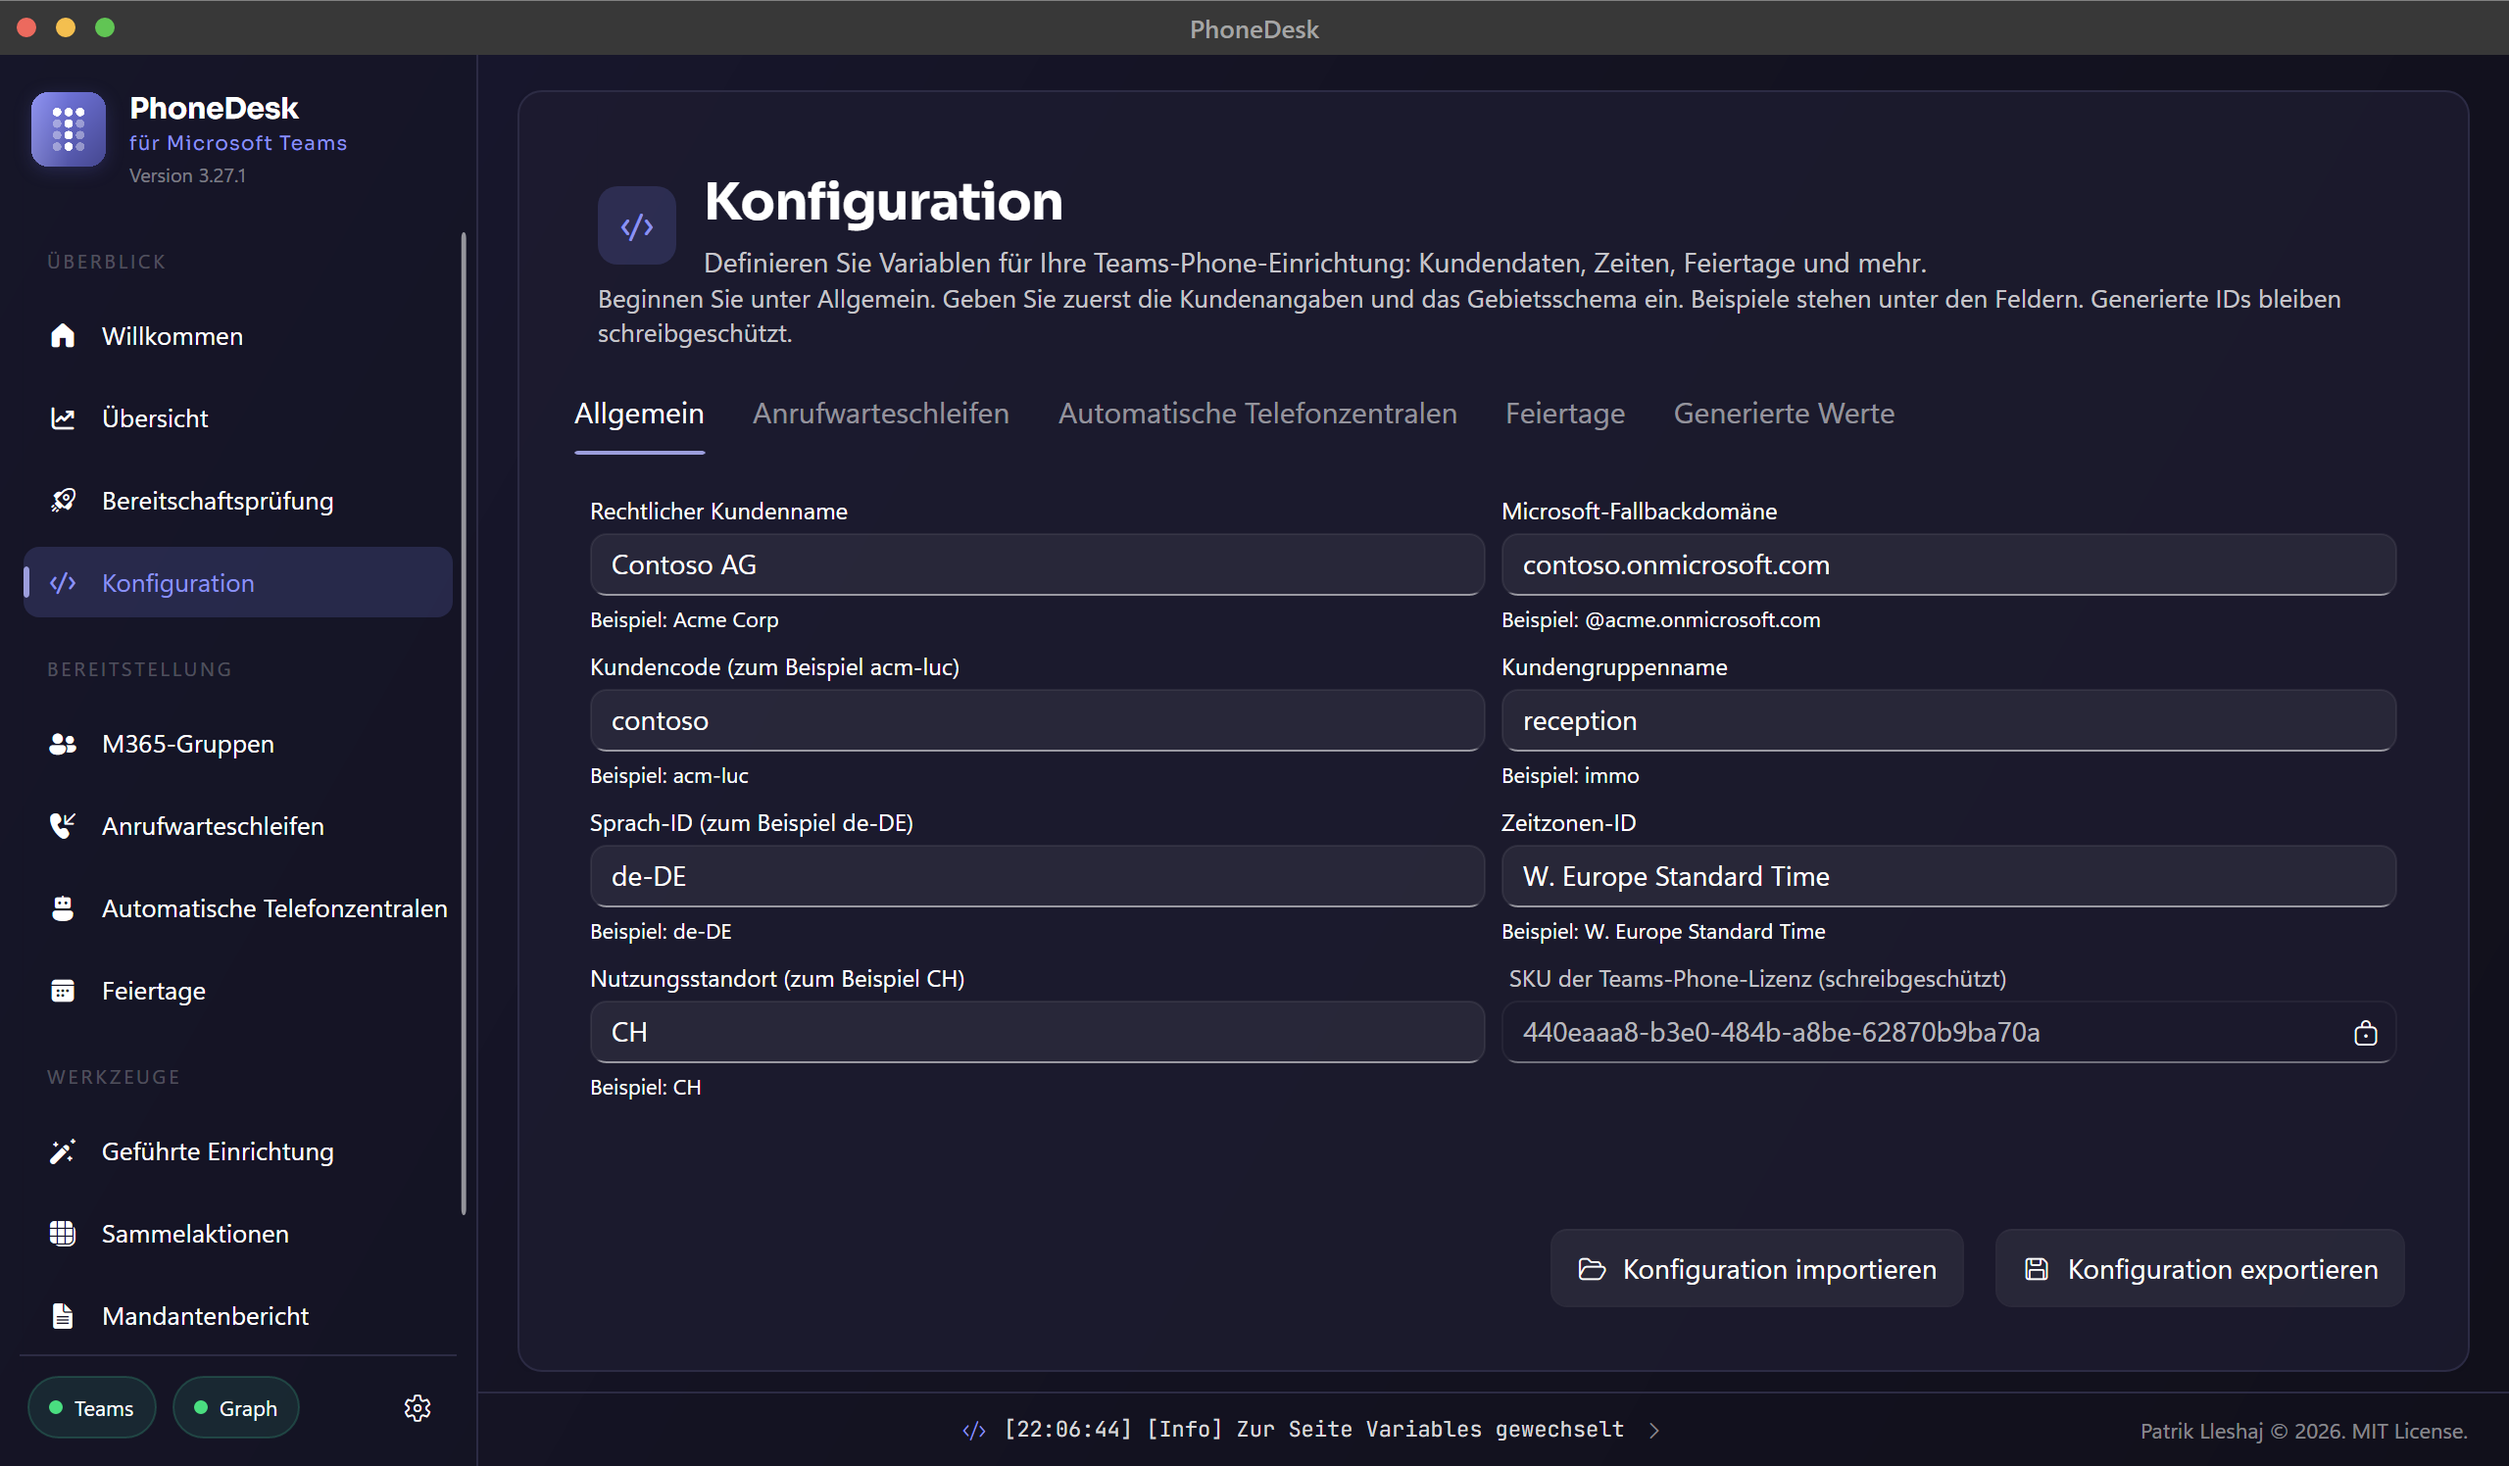
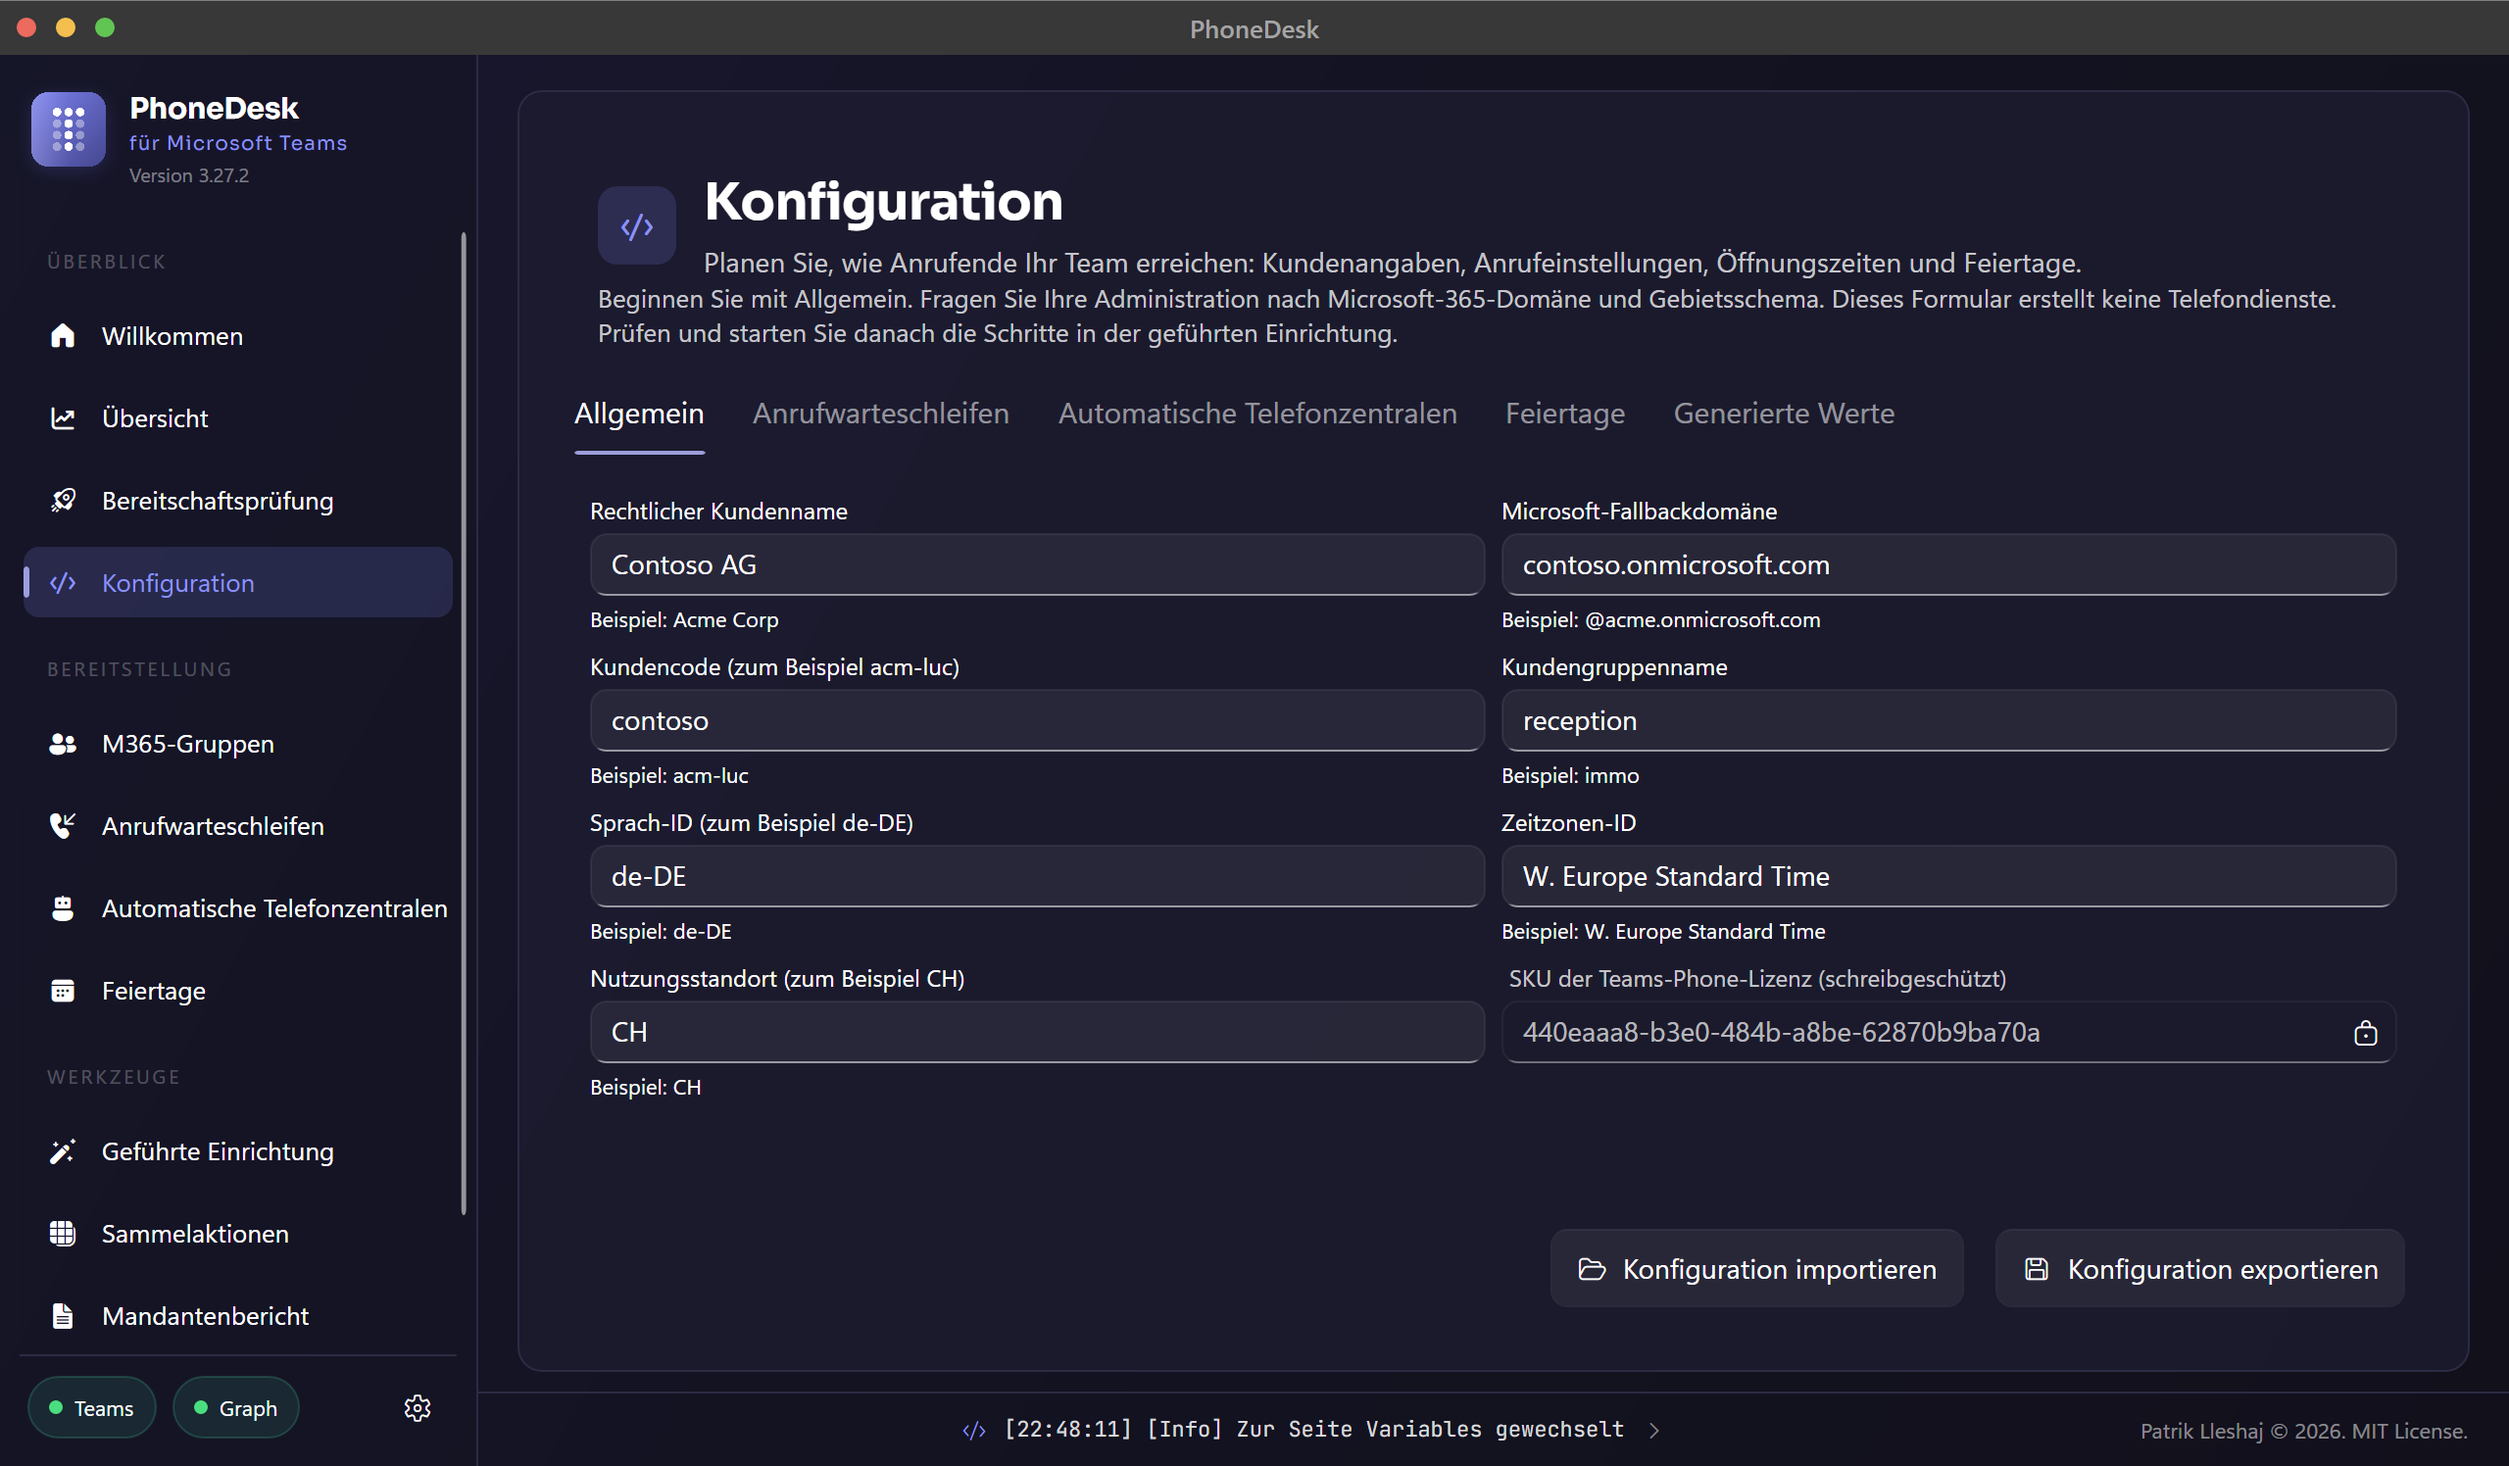
fix: explain Teams telephony for first-time operators
Release-As: 3.27.2

Changed region(s): [[0.25, 0.1537, 0.9375, 0.246]]

diff --git a/PhoneDesk.Tests/ScreenshotGenerator.cs b/PhoneDesk.Tests/ScreenshotGenerator.cs
@@ -70,8 +70,15 @@ namespace PhoneDesk.Tests
             new("Welcome", true, "shell-settings-en.png", "settings-en"),
             new("Welcome", true, "shell-settings-de.png", "settings-de"),
             new("Welcome", true, "welcome.png"),
+            new("Welcome", true, "welcome-de.png", "novice-de"),
+            new("Welcome", true, "welcome-basics-en.png", "novice-basics-en"),
+            new("Welcome", true, "welcome-basics-de.png", "novice-basics-de"),
+            new("GetStarted", true, "get-started-checklist-en.png", "novice-checklist-en"),
+            new("GetStarted", true, "get-started-checklist-de.png", "novice-checklist-de"),
             new("GetStarted", true, "get-started.png"),
             new("GetStarted", true, "get-started-ready.png", "ready"),
+            new("GetStarted", true, "get-started-connections-en.png", "ready-connections-en"),
+            new("GetStarted", true, "get-started-connections-de.png", "ready-connections-de"),
             new("GetStarted", true, "get-started-ready-de.png", "ready-de"),
             new("Variables", true, "variables.png"),
             new("Variables", true, "variables-de.png", "ready-de"),
@@ -348,6 +355,31 @@ namespace PhoneDesk.Tests
             }
 
             mainWindowViewModel.IsSettingsOpen = false;
+            if (scenario.StartsWith("ready-connections", StringComparison.Ordinal))
+            {
+                var scroll = window.GetVisualDescendants().OfType<ScrollViewer>().Single(e => e.Name == "ReadinessScroll");
+                scroll.ScrollToEnd();
+                PumpRender();
+                return;
+            }
+            foreach (var help in window.GetVisualDescendants().OfType<Expander>()
+                .Where(e => e.Name == "TelephonyBasics" || e.Name == "SetupChecklist"))
+            {
+                help.IsExpanded = false;
+            }
+            if (scenario.StartsWith("novice-basics", StringComparison.Ordinal)
+                || scenario.StartsWith("novice-checklist", StringComparison.Ordinal))
+            {
+                var name = scenario.StartsWith("novice-basics", StringComparison.Ordinal)
+                    ? "TelephonyBasics" : "SetupChecklist";
+                var expander = window.GetVisualDescendants().OfType<Expander>().Single(e => e.Name == name);
+                expander.IsExpanded = true;
+                PumpRender();
+                expander.BringIntoView();
+                PumpRender();
+                return;
+            }
+
             if (scenario.StartsWith("task6-update-banner", StringComparison.Ordinal))
             {
                 var stateType = typeof(MainWindowViewModel).GetNestedType("UpdateBannerState", BindingFlags.NonPublic)

diff --git a/src/PhoneDesk.Presentation/ViewModels/GetStartedViewModel.cs b/src/PhoneDesk.Presentation/ViewModels/GetStartedViewModel.cs
@@ -34,13 +34,13 @@ namespace PhoneDesk.ViewModels
         public string SetupGuidance => CanProceed
             ? GetText(
                 UiTextKey.GetStartedSetupGuidanceReady,
-                "Everything is ready. Start configuration when you're ready.")
+                "Your connections are ready. Continue to Configuration.")
             : _lastSetupErrorKey is { } errorKey
                 ? GetText(errorKey, _lastSetupErrorFallback ?? string.Empty)
                 : !ModulesChecked
                     ? GetText(
                         UiTextKey.GetStartedSetupGuidanceStartModules,
-                        "Start here: check the bundled modules before connecting to a customer tenant.")
+                        "Start with Check modules below. This checks the components PhoneDesk needs to connect.")
                     : !TeamsConnected
                         ? GetText(
                             UiTextKey.GetStartedSetupGuidanceConnectTeams,
@@ -55,7 +55,7 @@ namespace PhoneDesk.ViewModels
                 "Your connections are ready. You can start the customer configuration now.")
             : GetText(
                 UiTextKey.GetStartedSetupGuidanceDetailBlocked,
-                "Setup becomes available only after all three checks pass.");
+                "Complete all three checks before running Guided Setup. You can already prepare the form in Configuration.");
 
         public string ModulesActionText => ModulesChecked
             ? GetText(UiTextKey.GetStartedCheckAgainAction, "Check again")

diff --git a/src/PhoneDesk.Presentation/Localization/UiTextKey.cs b/src/PhoneDesk.Presentation/Localization/UiTextKey.cs
@@ -2,6 +2,20 @@ namespace PhoneDesk.Localization;
 
 public enum UiTextKey
 {
+    WelcomeBasicsTitle,
+    WelcomeCallExample,
+    WelcomeAttendantTitle,
+    WelcomeAttendantBody,
+    WelcomeQueueTitle,
+    WelcomeQueueBody,
+    WelcomeResourceTitle,
+    WelcomeResourceBody,
+    WelcomeTenantTitle,
+    WelcomeTenantBody,
+    GetStartedChecklistTitle,
+    GetStartedChecklistAccount,
+    GetStartedChecklistPlan,
+    GetStartedChecklistScope,
     CommonOpen,
     MainBrandForMicrosoftTeams,
     MainUpdateBadge,

diff --git a/PhoneDesk.Tests/GetStartedViewModelTests.cs b/PhoneDesk.Tests/GetStartedViewModelTests.cs
@@ -55,7 +55,7 @@ namespace PhoneDesk.Tests
 
             var vm = CreateViewModel(harness);
 
-            Assert.Contains("bundled modules", vm.SetupGuidance, StringComparison.OrdinalIgnoreCase);
+            Assert.Contains("Check modules", vm.SetupGuidance, StringComparison.OrdinalIgnoreCase);
             Assert.Equal("Check modules first", vm.TeamsActionText);
             Assert.Equal("Check modules first", vm.GraphActionText);
         }

diff --git a/src/PhoneDesk.Domain/ConstantsService.cs b/src/PhoneDesk.Domain/ConstantsService.cs
@@ -51,7 +51,7 @@ namespace PhoneDesk.Services
 
         public static class Application
         {
-            public const string Version = "Version 3.27.1"; // x-release-please-version
+            public const string Version = "Version 3.27.2"; // x-release-please-version
             public const string Copyright = "Patrik Lleshaj © 2026. MIT License.";
         }
 

diff --git a/AGENTS.md b/AGENTS.md
@@ -113,3 +113,5 @@ Always: **branch → commit → push + open PR → CI green → merge (merge com
 - 2026-09-05 — **Native Windows smoke**: the locally built 3.27.1 executable was launched by its full process path. Confirmed navigation, a General field label remaining visible after entering sample text, full wizard step names with invalid-config progression disabled, and the report's disabled snapshot actions plus prerequisite hint. Closed both test-launched windows afterward. No module installation, sign-in, or tenant operations were performed. The screenshot harness now matches the `-de` suffix exactly, so `validation-details` no longer accidentally selects German.
 
 - 2026-09-05 — **Import schedule validation**: configuration JSON must carry all seven weekdays, including disabled days. This prevents imported partial schedules from silently removing editable days or changing opening hours; rejection happens before import preview/application. The regression removes a weekday from serialized JSON and verifies the actionable validation error. Production ScriptBuilders remain untouched.
+
+- 2026-09-05 — **Beginner telephony guidance (3.27.2)**: Welcome now explains auto attendants, call queues/agents, resource accounts and tenants with a reception example. Readiness explains both connections, preparation needs, and the boundary between connected services and a validated phone system; Configuration explains that editing the form does not provision resources. English/German expanded and collapsed help plus connection-ready states are in ScreenshotGenerator. Native Windows help expansion and Welcome-to-Readiness navigation were checked without module installation, sign-in, or tenant mutation.
